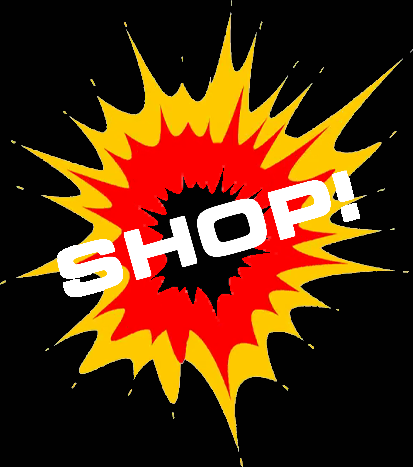
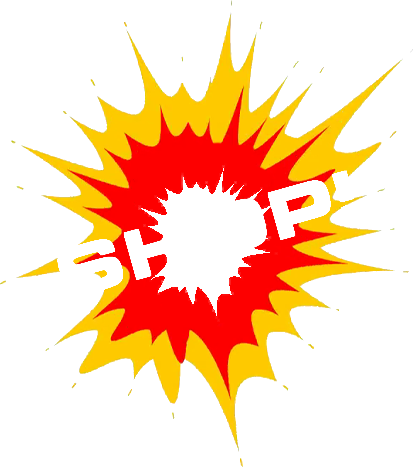
bg

diff --git a/stylesheet.css b/stylesheet.css
@@ -2,6 +2,7 @@ body
 {
     background-image: url(light.gif);
     background-size: cover;
+		background-repeat: repeat;
 
 
 
@@ -21,12 +22,15 @@ body
 
 #button
 {
+
+	background: transparent;
  float: right;
  position: absolute;
  top: 25vw;
  right: 7vw;
  z-index: 2; /* Specify a stack order in case you're using a different order for other elements */
  cursor: pointer;
+ mix-blend-mode: color-dodge;
 }
 
 
